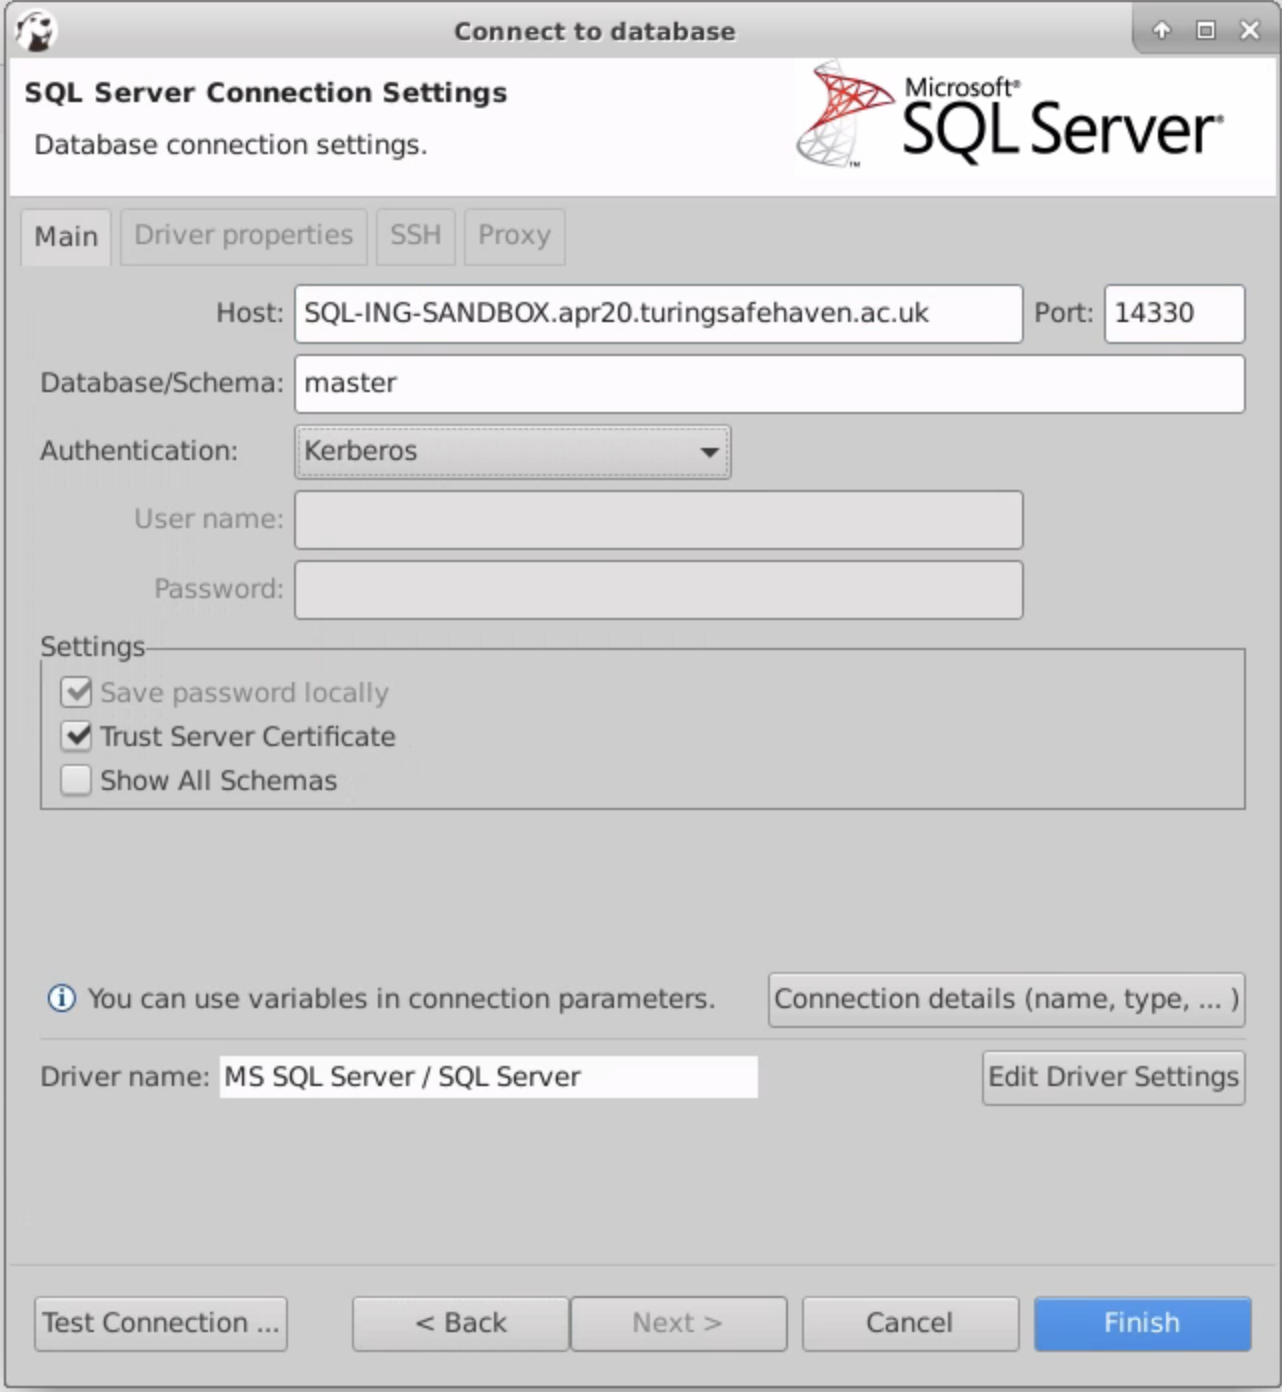
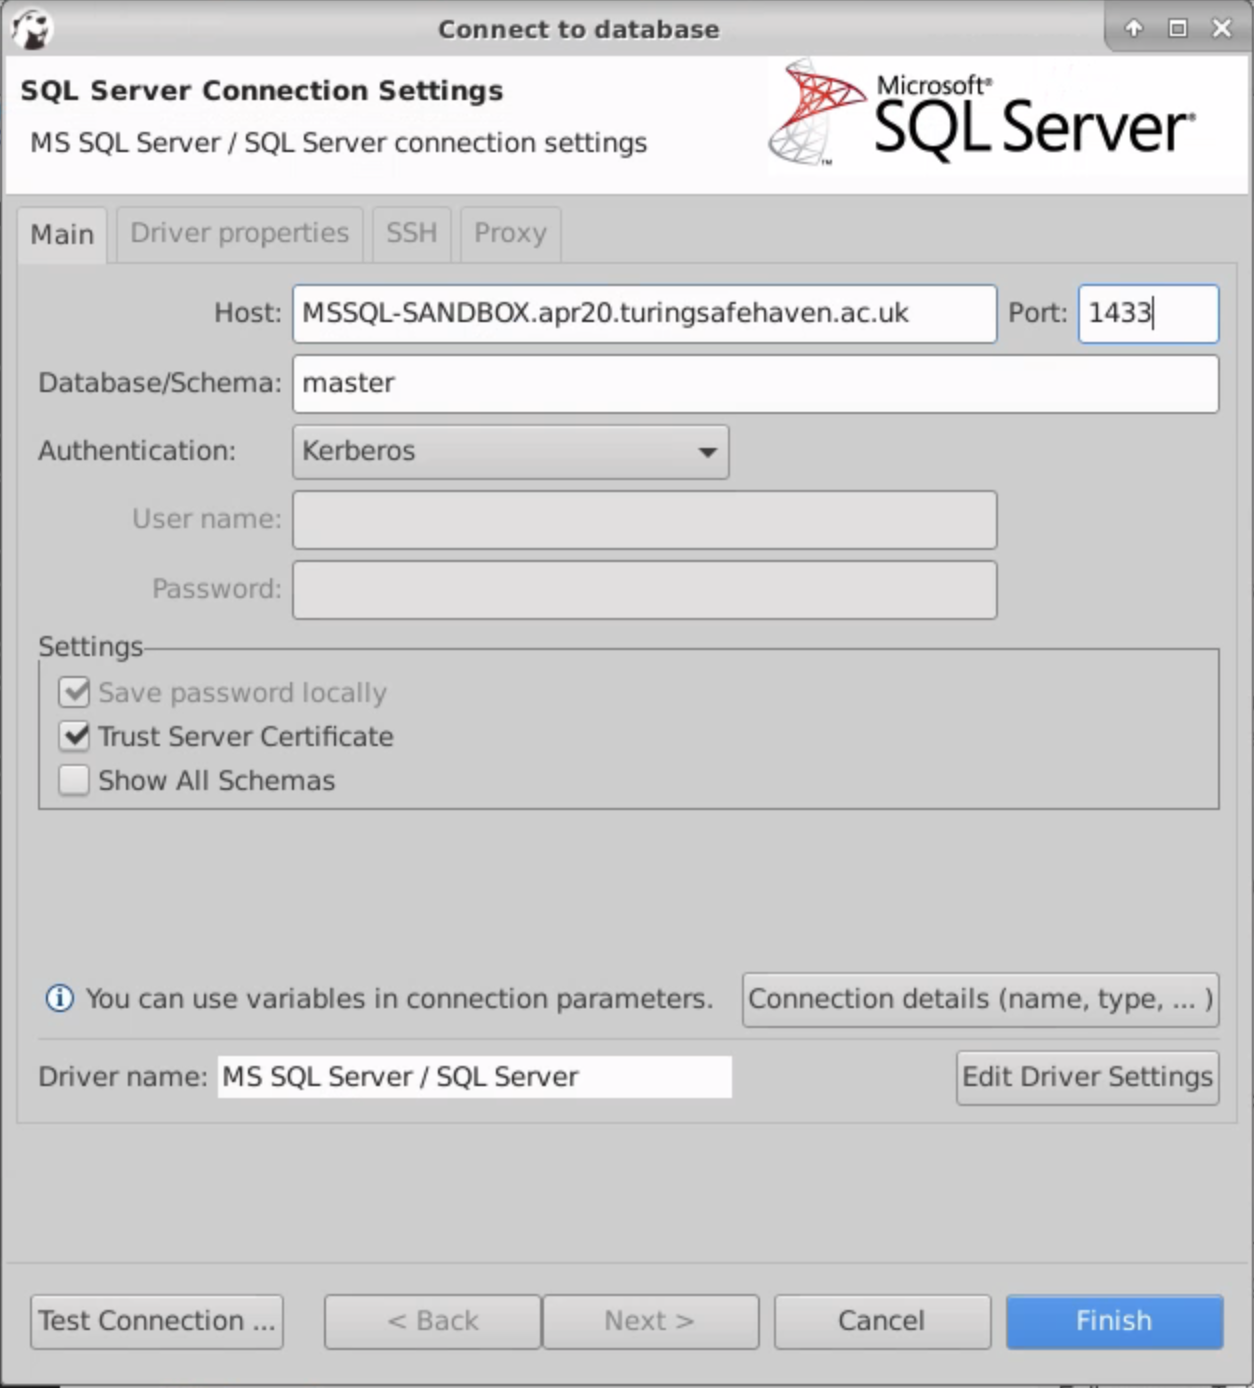
Update database connection details in user guide

diff --git a/docs/safe_haven_user_guide.md b/docs/safe_haven_user_guide.md
@@ -72,7 +72,7 @@ The following definitions might be useful during the rest of this guide
 
 > **Username domain**: the domain (for example `apr20.turingsafehaven.ac.uk`) which your user account will belong to. Multiple SREs can share the same domain for managing users in common. We we will call this `<username domain>` in the rest of this document
 
-> **SRE URL**: each SRE has a dedicated URL (for example `sandbox.apr20.turingsafehaven.ac.uk`) which is used to access the data. We will call this `<SRE URL>` in the rest of this document
+> **SRE URL**: each SRE has a dedicated URL (for example `sandbox.apr20.turingsafehaven.ac.uk`) which is used to access the data. We will call this full URL the `<SRE URL>` in the rest of this document, and we will call the initial part of the URL the `<SRE ID>` (i.e. `sandbox` in this example).
 
 
 ## :rocket: Set up your account
@@ -802,11 +802,17 @@ Your project might use a database for holding the input data.
 You might also/instead be provided with a database for use in analysing the data.
 The database server will use either `Microsoft SQL` or `PostgreSQL`.
 
-If you have access to one or more databases, you can access them using the following details:
+If you have access to one or more databases, you can access them using the following details, where `<SRE ID>` is the first part of the URL you used to access the SRE (i.e. for an SRE accessed at `https://sandbox.apr20.turingsafehaven.ac.uk`, the `<SRE ID>` would be `sandbox`).
 
-> Server name: \<provided by your SRE administrator>.\<username domain>
-> Database name: \<provided by your SRE administrator>
-> Port: 14330 (for `Microsoft SQL`) or 5432 (for `PostgreSQL`)
+### Microsoft SQL
+>  - Server name: `MSSQL-<SRE ID>` (e.g. `MSSQL-SANDBOX`)
+> - Database name: \<provided by your SRE administrator>
+> - Port: 1433
+
+### PostgreSQL
+>  - Server name:  `PSTGRS-<SRE ID>`  (e.g. `PSTGRS-SANDBOX`)
+> - Database name: \<provided by your SRE administrator>
+> - Port: 5432
 
 Examples are given below for connecting using Azure Data Studio, DBeaver, Python and R.
 The instructions for using other graphical interfaces or programming languages will be similar.
@@ -814,14 +820,13 @@ The instructions for using other graphical interfaces or programming languages w
 ### :art: Connecting using Azure Data Studio
 Azure Data Studio is currently only able to connect to `Microsoft SQL` databases.
 
-> :information_source: For our example user, Ada Lovelace, using the server `SQL-ING-SANDBOX` and her username domain of `apr20.turingsafehaven.ac.uk` would connect using Azure Data Studio as follows
+> :information_source: Our example user Ada Lovelace, working in the `sandbox` SRE on the `apr20.turingsafehaven.ac.uk` Safe Haven, would connect using Azure Data Studio as follows:
 
    <p align="center">
-      <img src="images/user_guide/db_AzureDataStudio.png" width="80%" title="db_AzureDataStudio">
+      <img src="images/user_guide/db_azure_data_studio.png" width="80%" title="db_AzureDataStudio">
    </p>
 
 > :point_right: it is important to select `Windows authentication` here so that your username and password will be passed through to the database.
-> :point_right: Safe Haven databases use a non-standard port (`14330`), so you will also need to click the `Advanced` button and set the `Port` setting to `14330` under the `General` section of the advanced settings.
 
 ### :bear: Connecting using DBeaver
 - Click on the `New database connection` button (which looks a bit like an electrical plug with a plus sign next to it)
@@ -831,7 +836,7 @@ Azure Data Studio is currently only able to connect to `Microsoft SQL` databases
 - Enter the necessary information in the `Host` and `Port` boxes and set `Authentication` to `Kerberos`
 - Tick `Show All Schemas` otherwise you will not be able to see the input data
 
-> :information_source: For our example user, Ada Lovelace, using the server `SQL-ING-SANDBOX` and her username domain of `apr20.turingsafehaven.ac.uk` would connect using DBeaver as follows
+> :information_source: Our example user Ada Lovelace, working in the `sandbox` SRE on the `apr20.turingsafehaven.ac.uk` Safe Haven, would connect using DBeaver as follows:
 
    <p align="center">
       <img src="images/user_guide/db_dbeaver_mssql.png" width="80%" title="DBeaver MS SQL connection">
@@ -844,7 +849,7 @@ Azure Data Studio is currently only able to connect to `Microsoft SQL` databases
 - Enter the necessary information in the `Host` and `Port` boxes and set `Authentication` to `Database Native`
 - :point_right: You do not need to enter any information in the `Username` or `Password` fields
 
-> :information_source: For our example user, Ada Lovelace, using the server `PGS-ANA-SANDBOX` and her username domain of `apr20.turingsafehaven.ac.uk` would connect using DBeaver as follows
+> :information_source: Our example user Ada Lovelace, working in the `sandbox` SRE on the `apr20.turingsafehaven.ac.uk` Safe Haven, would connect using DBeaver as follows:
 
    <p align="center">
       <img src="images/user_guide/db_dbeaver_postgres1.png" width="80%" title="DBeaver PostgreSQL connection">
@@ -861,13 +866,15 @@ Azure Data Studio is currently only able to connect to `Microsoft SQL` databases
 Database connections can be made using `pyodbc` or `psycopg2` depending on which database flavour is being used.
 The data can be read into a dataframe for local analysis.
 
+> :information_source: Our example user Ada Lovelace, working in the `sandbox` SRE on the `apr20.turingsafehaven.ac.uk` Safe Haven, would connect using DBeaver as follows:
+
 #### Microsoft SQL
 ```python
 import pyodbc
 import pandas as pd
 
 server = "MSSQL-SANDBOX.apr20.turingsafehaven.ac.uk"
-port = 14330
+port = 1433
 db_name = "master"
 
 cnxn = pyodbc.connect("DRIVER={ODBC Driver 17 for SQL Server};SERVER=" + server + "," + port + ";DATABASE=" + db_name + ";Trusted_Connection=yes;")
@@ -894,6 +901,8 @@ print(df.head(3))
 Database connections can be made using `odbc` or `RPostgres` depending on which database flavour is being used.
 The data can be read into a dataframe for local analysis.
 
+> :information_source: Our example user Ada Lovelace, working in the `sandbox` SRE on the `apr20.turingsafehaven.ac.uk` Safe Haven, would connect using DBeaver as follows:
+
 #### Microsoft SQL
 ```R
 library(DBI)
@@ -903,7 +912,7 @@ library(odbc)
 cnxn <- DBI::dbConnect(
     odbc::odbc(),
     Driver = "ODBC Driver 17 for SQL Server",
-    Server = "MSSQL-SANDBOX.apr20.turingsafehaven.ac.uk,14330",
+    Server = "MSSQL-SANDBOX.apr20.turingsafehaven.ac.uk,1433",
     Database = "master",
     Trusted_Connection = "yes"
 )
@@ -921,7 +930,7 @@ library(DBI)
 # Connect to the databases
 cnxn <- DBI::dbConnect(
     RPostgres::Postgres(),
-    host = "PSTGRS-SANDBOX.testa.dsgroupdev.co.uk",
+    host = "PSTGRS-SANDBOX.apr20.turingsafehaven.ac.uk",
     port = 5432,
     dbname = "postgres"
 )
